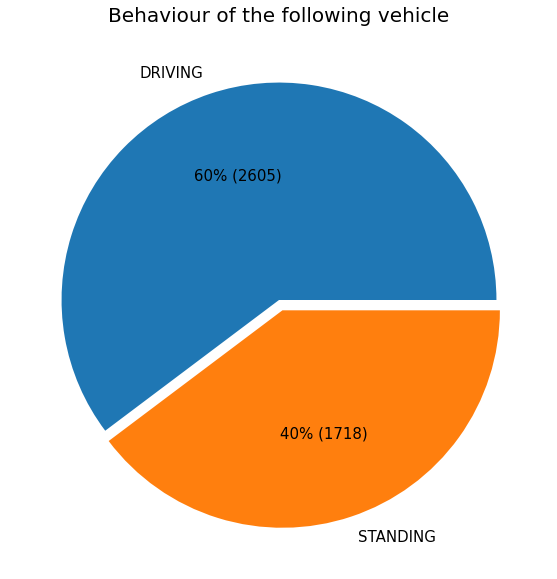
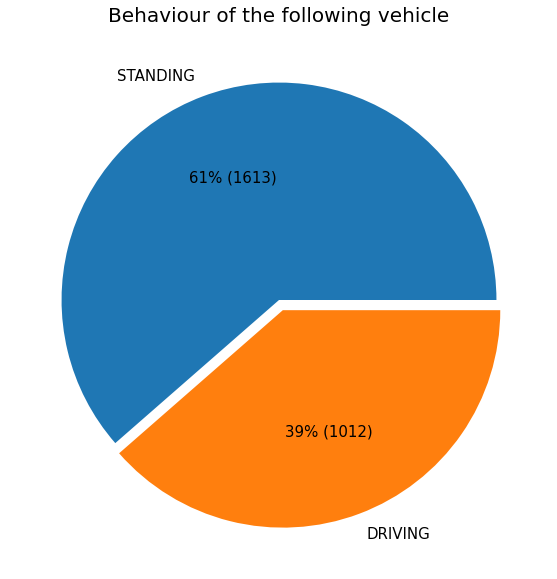
Release article

diff --git a/content/posts/open-dd-analysis/index.md b/content/posts/open-dd-analysis/index.md
@@ -1,27 +1,15 @@
 ---
-title: "OpenDD Analysis"
-date: 2022-03-05T13:00:00+01:00
-draft: true
+title: "Vehicle trajectory analysis in Frenet-Serret coordinates on the Large-Scale Roundabout Drone Dataset (OpenDD)"
+date: 2022-03-06T12:00:00+01:00
+draft: false
 math: true
 ---
 
-<script type="text/javascript"
-src="https://cdnjs.cloudflare.com/ajax/libs/mathjax/2.7.1/MathJax.js?config=TeX-AMS-MML_HTMLorMML">
-</script>
+![title](title.png)
 
-<script type="text/x-mathjax-config">
-MathJax.Hub.Config({
-  tex2jax: {
-     inlineMath: [['$','$'], ['\\(','\\)']],
-     displayMath: [['$$','$$']],
-     processEscapes: true,
-     processEnvironments: true,
-     skipTags: ['script', 'noscript', 'style', 'textarea', 'pre'],
-     TeX: { equationNumbers: { autoNumber: "AMS" },
-            extensions: ["AMSmath.js", "AMSsymbols.js"] }
-  }
-});
-</script>
+## TL;DR; <!-- omit in toc -->
+
+This blog posts presents the of Frenet-Serret coordinate system for driving trajectory analysis. This system is defined by a reference path, such as a driving lane. As an showcase example, the delay times and distances between vehicles in a roundabout setting are analyzed. The trajectories recorded in the OpenDD dataset are used. In the end of the post, the reader will understand the benefits of Frenet-Serret frames compared to a conventional metric approach when it comes to trajectory analysis in a real world setting. Moreover, you will have a handy mathematical tool to detect tipsy drivers!
 
 ## Contents <!-- omit in toc -->
 
@@ -41,7 +29,7 @@ MathJax.Hub.Config({
 - [Results](#results)
   - [Behaviour of the following vehicles](#behaviour-of-the-following-vehicles)
   - [Delay](#delay)
-  - [WIP: Distance](#wip-distance)
+  - [Distance](#distance)
 - [Summary & outlook](#summary--outlook)
 - [References](#references)
 
@@ -318,7 +306,7 @@ class DiscreteReferencePath:
         return s,  d
 ```
 
-The points `np.ndarray` holds the (cartesian) locations of points along the arc length $s$. In order to transform any cartesian coordinate $c$ to the Frenet system, the closest point on the reference path with an arc length $s'$, $r(s')$ is taken. The corresponding arc length $s'$ and Euclidean distance between $c$ and $r(s')$ both are the resulting Frenet coordinates. This is implemented in the `to_frenet()` method.
+The points `np.ndarray` holds the (cartesian) locations of points along the arc length $s$. In order to transform any cartesian coordinate $c$ to the Frenet system, the closest point on the reference path with an arc length $s^{c}$, $r(s^{c})$ is taken. The corresponding arc length $s^c$ and Euclidean distance between $c$ and $r(s^c)$ both are the resulting Frenet coordinates. This is implemented in the `to_frenet()` method.
 
 Note, that the spatial resolution of the arc length affects the accuracy, i.e. a sparsely sampled reference curve will lead to atypical trajectories in Frenet space.
 
@@ -326,11 +314,35 @@ After transforming all available vehicle trajectories to Frenet space, it is pos
 
 ![trajs-on-path3](trajs-on-path3.png)
 
-The higher the slope the faster the vehicle, horizontal time periods indicate that a vehicle does not move. In this visualization it is easy to find the distances between the vehicles at a particular point in time. For example at 210s a distance of 10m for both standing vehicles can be observed.
+The higher the slope the faster the vehicle, horizontal time periods indicate that a vehicle does not move. In this visualization it is easy to find the distances between the vehicles at a particular point in time. For example, at $t=210s$ a distance of $\approx 10m$ for both vehicles (IDs `124` and `126`) can be observed.
 
 ### Behaviour analysis
 
-Assuming no overtakes are possible, which is valid in a single-lane roundabout, let's iterate over each pair of trajectories and record both the distances and the states of the follower vehicle at points in time, where the leading vehicle moves off. As a result, a table containing all moving-off situations is created with corresponding vehicle IDs, distances, delays, and states (here first 5 rows are show):
+Assuming no overtakes are possible, which is valid in a single-lane roundabout, let's iterate over each pair of trajectories and record both the distances and states of the follower vehicle at particular points in time, where the leading vehicle moves off. This logic is implemeted in `analyze_driveoffs_from_path()` routine in [3].
+
+We encapsulate found events as a datastructure:
+
+```python
+@dataclass
+class DriveOffSituation:
+    """Analysis artifact representing a moving-off situation
+    """
+    
+    # vehicle IDs
+    o1_id: int  # leading
+    o2_id: int  # following
+    
+    t: float  # time of the event
+    
+    distance: float  # distance between the objects
+    
+    # O2 properties
+    o2_state: VehicleState
+    o2_timedelta_drive_off: Optional[float] 
+    o2_velocity: float
+```
+
+As a result, a table containing all moving-off situations is created with corresponding vehicle IDs, distances, delays, and states (here first 5 rows are show):
 
 ![move-off-results-table](move-off-results-table.png)
 
@@ -347,21 +359,23 @@ This effect can be similar to daily observation behind a traffic light – the f
 
 ### Delay
 
-The second aspect focuses on the time the second vehicle needs to move off after the first left. From the distribution it can be derived, that the majority needs a little more than a second. This number confirms the results from [3], where the reaction time for expected stimulus while driving is around 1s as well.
+The second aspect focuses on the time the second vehicle needs to move off after the first left. From the distribution it can be derived, that the majority needs a little more than a second. This number confirms the results from [3], where the reaction time for expected stimulus while driving is around $1s$ as well.
 
 ![results-delay-all](results-delay-all.png)
 
-### WIP: Distance
+### Distance
 
-Lastly, the distance between the vehicles while waiting will be analysed. An average distance slightly below 2 meters can be observed:
+Lastly, the distance between the vehicles while waiting shall be analyzed. An average distance slightly below 2 meters can be observed:
+
+![results-distance-all](results-distance-all.png)
 
 ## Summary & outlook
 
 This blog post demonstrates the advantage of Frenet coordinates for traffic trajectory analysis. This representation maps the locations relative to the reference path (e.g. driving lane) instead of a location in 2D plane.
 
-So far in this post, only a “simple” situation type is covered – the delay and distance analysis between two vehicles. In a nutshell, the analysis confirms the general assumptions about the reaction time of about 1s (including the car’s response delay). In addition, a statistic about the average distance between two waiting vehicles shows a value of 2m. Against my personal expectations, most people already move off slowly even before the front vehicle starts moving.
+So far in this post, only a “simple” situation type is covered – the delay and distance analysis between two vehicles. In a nutshell, the analysis confirms the general assumption regarding the delay time of approx. $1s$. In addition, a statistic about the average distance between two waiting vehicles shows a value of $2m$. Against my personal expectations, the majority of drivers already move off slowly even before the front vehicle starts moving.
 
-The Frenet representation allows more complex analyses such as overtaking manoeuvre quantification, alcohol detection (by detecting waves in the $d$-component (normal) of the Frenet representation), illegal line changes (considering the lane-types) or jerk analysis regarding the driving comfort. All those use-cases require a less complex logic within the Frenet framework  than a conventional Euclidean representation. 
+The Frenet-Serret frame allows far more complex analyses such as overtaking manoeuver quantification, alcohol detection (by detecting fluctuations in the $d$-component of the Frenet representation), illegal line changes (considering the lane-types) or jerk analysis regarding the driving comfort. All those use-cases require a less complex logic within the Frenet framework  than a conventional Euclidean representation.
 
 ## References
 
@@ -370,3 +384,5 @@ The Frenet representation allows more complex analyses such as overtaking manoeu
 [2] A. A. Taha and A. Hanbury, *An Efficient Algorithm for Calculating the Exact Hausdorff Distance*, IEEE Transactions on Pattern Analysis and Machine Intelligence, November 2015.
 
 [3] Paweł Droździel, *Drivers ’reaction time research in the conditions in the real traffic*, Open Engineering, 2020. 
+
+[4] https://github.com/kopytjuk/opendd-analysis

diff --git a/content/about/index.md b/content/about/index.md
@@ -2,7 +2,7 @@
 title: "About"
 ---
 
-My name is Marat, I am born in the early 90's, work and live in Heilbronn (South Germany). I was born in Belarus, got my mechatronics degree in Germany. My mother language is Russian, but over the time the available vocabulary in German and English got more advanced.
+My name is Marat, I was born in the early 90's in Witebsk (Belarus), currently work and live in Heilbronn (South Germany). I studied mechatronics for Bachelor. and automated driving for Masters degree. My mother language is Russian, but over the time the available vocabulary in German and English got more advanced.
 
 I count myself as an interdisciplinary developer who believes that combining cross-domain expertise in mechatronical systems, robotics, software engineering, cloud and probability theory is essential towards inspiring, efficient, future-proof and reliable products.
 
@@ -26,4 +26,5 @@ My previous experiences which shaped my horizon:
 - Gitlab CI/CD pipelines involing Docker and `pytest` (2018-now)
 - [Frenét-frame trajectory planner](https://ieeexplore.ieee.org/document/5509799?arnumber=5509799) integration from `MATLAB` to ROS2 in C++ (2020)
 - Wrapping C++ routines to use in Python with [`pybind11`](https://github.com/pybind/pybind11) (2021)
-- Small open source contributions to `opencv`, `tensorflow`, `matplotlib` and `bokeh` (2018-now)
+- Small open source contributions to `opencv`, `tensorflow`, `matplotlib` and `bokeh` (2018-now), see [github](https://github.com/pulls?q=is%3Apr+author%3Akopytjuk+archived%3Afalse+is%3Aclosed)
+- Various blogs, refer to [Blog](../posts/)
